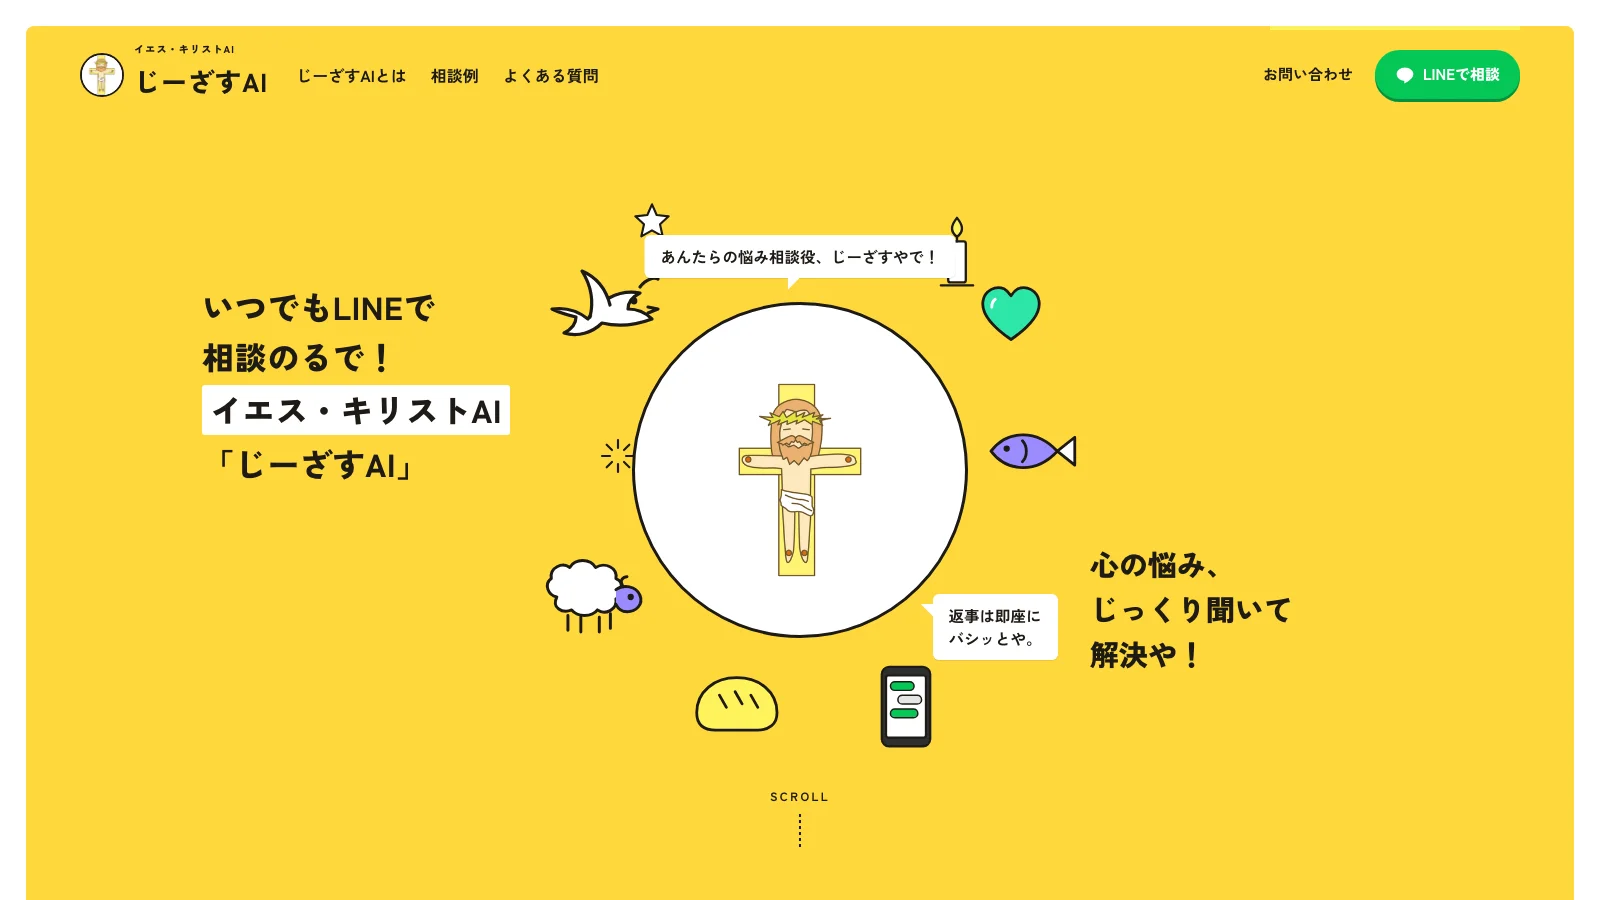
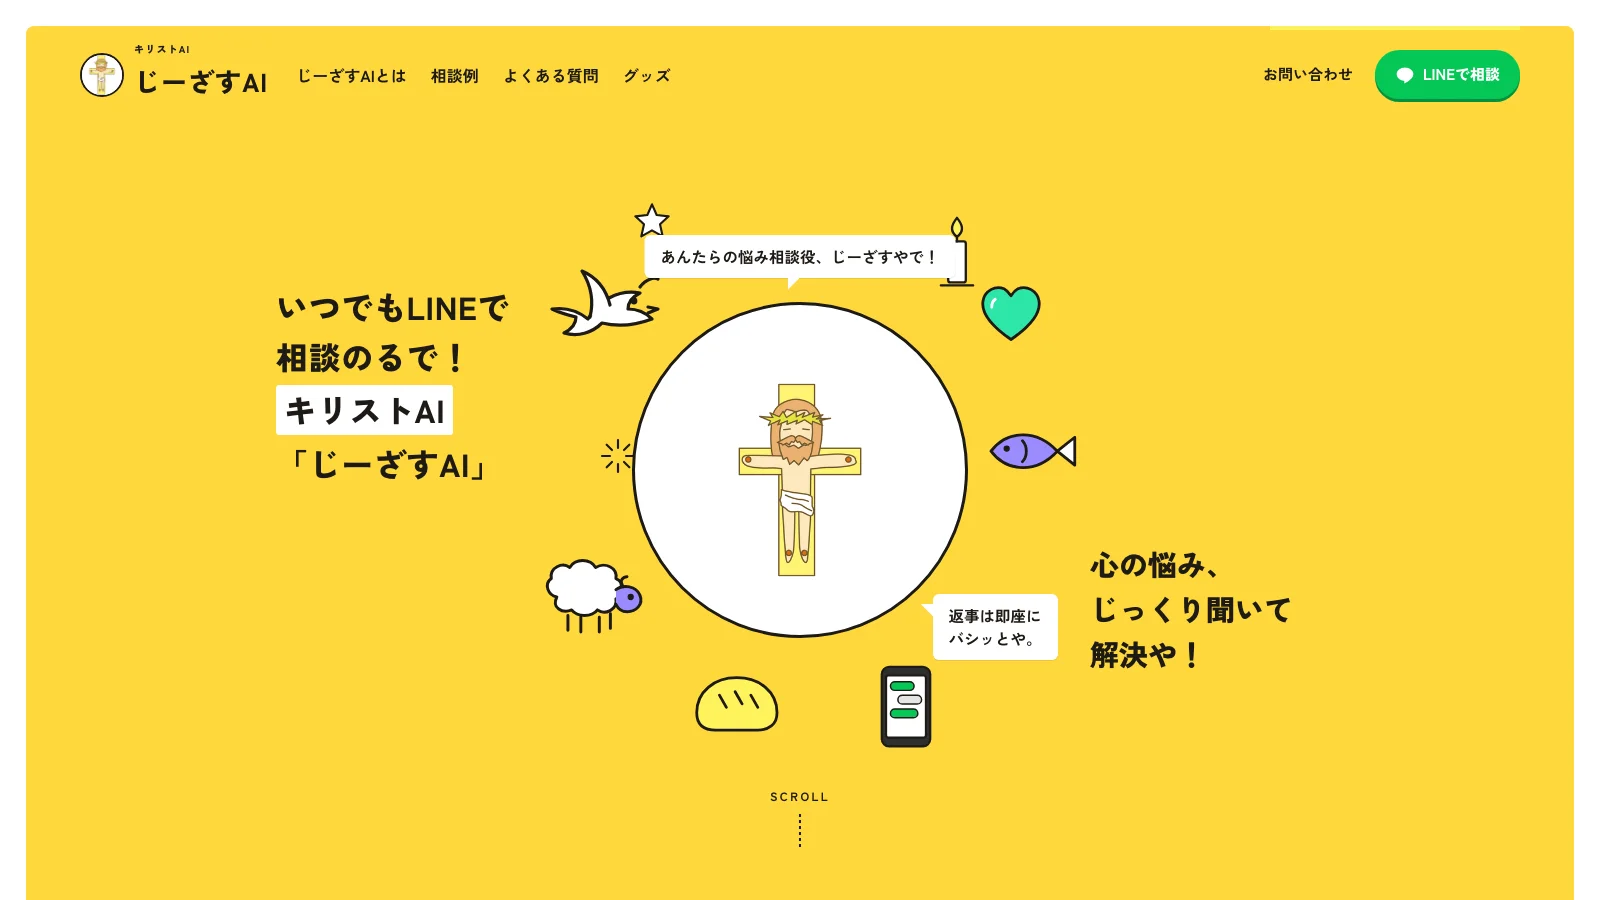
じーざすAIの表記をキリストAIに合わせ、カード画像を更新
Claude-Session: https://claude.ai/code/session_011X7qoyyPRZnaJ3dxiTaEjA

Changed region(s): [[0.125, 0.3111, 0.3438, 0.5289], [0.0938, 0.0311, 0.1562, 0.0622], [0.375, 0.0622, 0.4062, 0.0933]]

diff --git a/src/app/page.tsx b/src/app/page.tsx
@@ -99,12 +99,12 @@ const PRODUCTS: Product[] = [
     logo: "/logos/jesusai.png",
     title: "じーざすAI",
     category: "AI Service",
-    subtitle: "LINEで相談できるイエス・キリストAI",
+    subtitle: "LINEで相談できるキリストAI",
     description:
       "コテコテ大阪弁のじーざすが、LINEで心の悩みに聖書の言葉で答えるお悩み相談サービスです。無料相談は1日2回まで、12使徒性格診断もできます。",
     url: "https://jesusai.jp/",
     domain: "jesusai.jp",
-    anchor: "LINEで相談できるイエス・キリストAI「じーざすAI」",
+    anchor: "LINEで相談できるキリストAI「じーざすAI」",
   },
 ];
 
